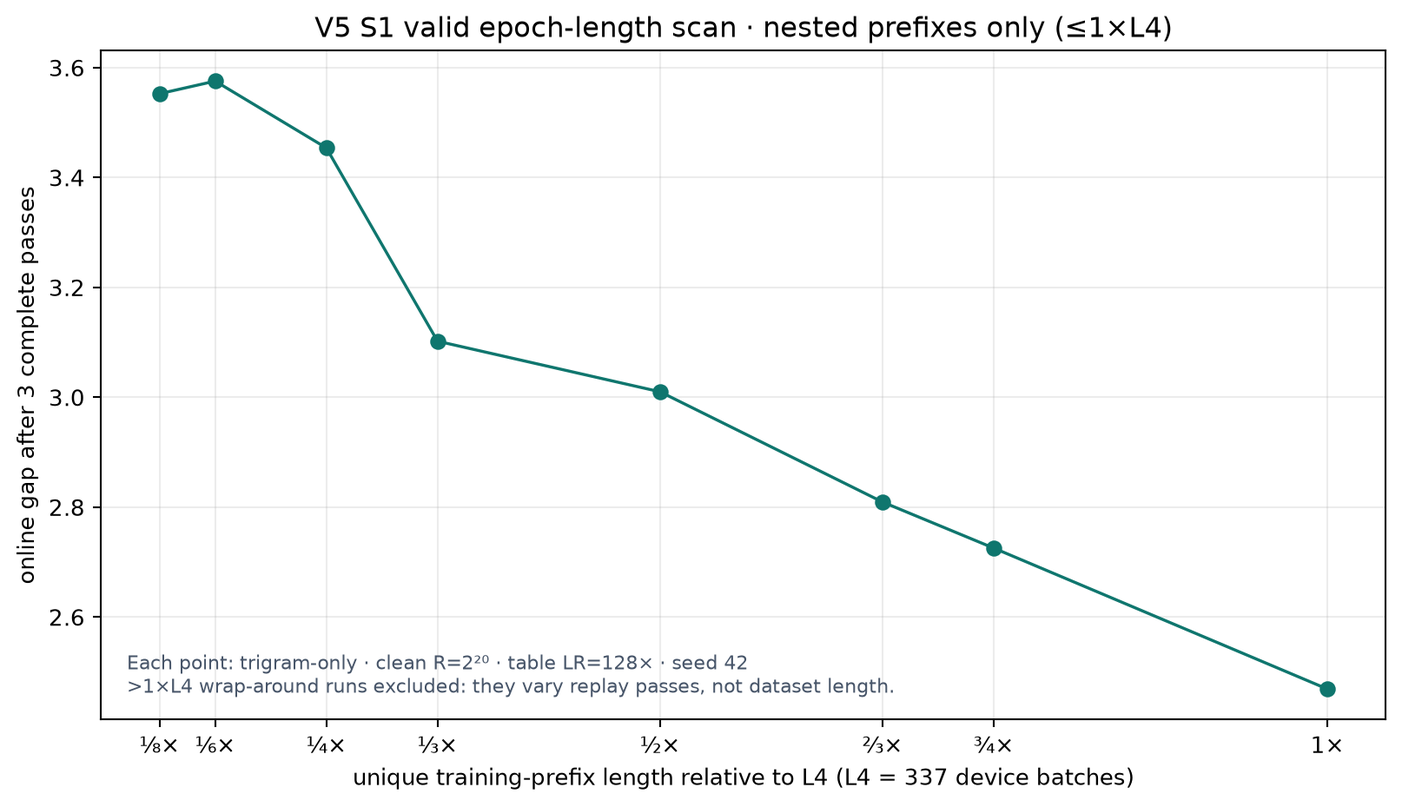
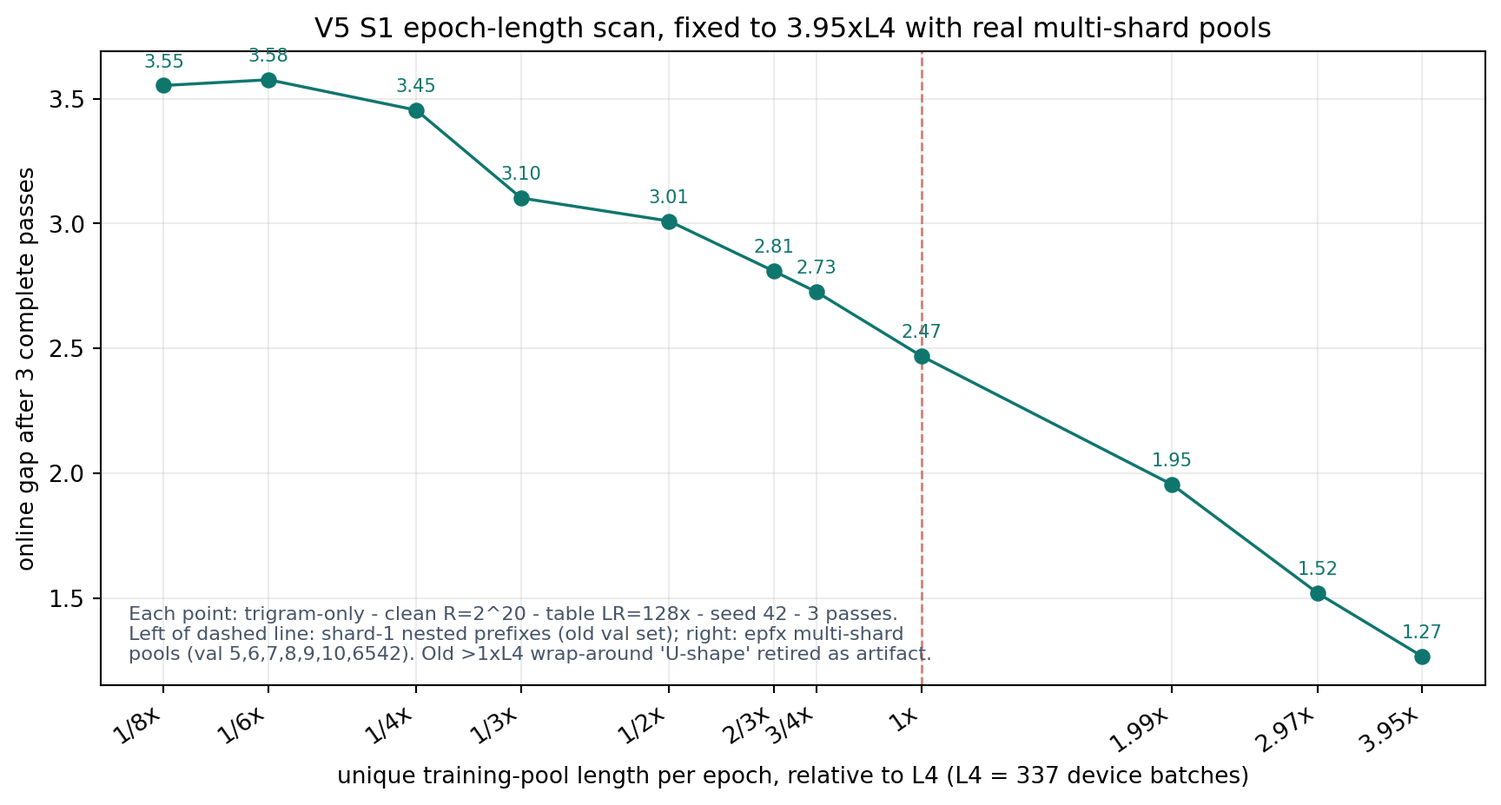
docs(ngram-gap): restructure main doc TOC, model finale with LaTeX derivation, epoch-length fix to 3.95xL4

diff --git a/blogs/ngram-gap-mechanism-guide/index.html b/blogs/ngram-gap-mechanism-guide/index.html
@@ -4,6 +4,13 @@
 <meta charset="utf-8">
 <meta name="viewport" content="width=device-width, initial-scale=1">
 <title>n-gram gap 机制 · 主文档（v5 标准）</title>
+<script>
+window.MathJax = {
+  tex: {inlineMath: [['\\(','\\)']], displayMath: [['\\[','\\]']]},
+  chtml: {scale: 0.98}
+};
+</script>
+<script async src="https://cdn.jsdelivr.net/npm/mathjax@3/es5/tex-chtml.js"></script>
 <style>
 :root{--ink:#1c2733;--mut:#5b6b7b;--line:#dde5ec;--acc:#2d6f9f;--acc2:#c4493d;--bg:#fbfcfd;--card:#fff}
 *{box-sizing:border-box}
@@ -29,7 +36,6 @@ code{background:#eef2f6;border-radius:4px;padding:1px 5px;font:12.5px/1.5 ui-mon
 .toc a{display:block;background:var(--card);border:1px solid var(--line);border-radius:10px;padding:9px 12px;text-decoration:none;color:var(--ink);font-size:13.5px}
 .toc a:hover{border-color:var(--acc)}
 .toc a b{color:var(--acc)}
-.formula{background:var(--card);border:1px solid var(--line);border-radius:10px;padding:12px 16px;font:14px/1.7 ui-monospace,Menlo,monospace;margin:.9em 0;overflow-x:auto}
 footer{margin-top:3em;padding-top:1em;border-top:1px solid var(--line);color:var(--mut);font-size:12.8px}
 a{color:var(--acc)}
 .small{font-size:12.8px;color:var(--mut)}
@@ -42,32 +48,32 @@ a{color:var(--acc)}
 <p class="lead">本页是<b>唯一权威主文档</b>（blog 发布版；本地只读副本在仓库 <code>docs/report/index.html</code>）。全部结果使用 v5 极简标准与统一口径：gap = fixed-val − current-batch online train loss，run 级溯源见 <a href="experiment-registry.html">实验登记表</a>。</p>
 
 <div class="toc">
-<a href="#s0"><b>0</b> 标准与测量</a>
-<a href="#s1"><b>1</b> 主要现象：加 n-gram 就有 gap</a>
-<a href="#s2"><b>2</b> gap–频率关系</a>
-<a href="#s3"><b>3</b> gap–表大小关系</a>
-<a href="#s4"><b>4</b> epoch 轴：长度、编号与 pass</a>
-<a href="#s5"><b>5</b> 干预实验</a>
-<a href="#s6"><b>6</b> 核心区间模型：频率核 × replay 读出</a>
-<a href="#s7"><b>7</b> 附录：LR 与 β₂ 消融</a>
-<a href="#s8"><b>8</b> 来源与可追溯性</a>
+<a href="#s1"><b>1</b> 代码与标准 setting</a>
+<a href="#s2"><b>2</b> 主要现象：加 n-gram 就有 gap</a>
+<a href="#s3"><b>3</b> gap–频率关系</a>
+<a href="#s4"><b>4</b> gap–表大小关系</a>
+<a href="#s5"><b>5</b> epoch 轴：长度、编号与 pass</a>
+<a href="#s6"><b>6</b> 干预实验</a>
+<a href="#s7"><b>7</b> 附录：学习率与优化器消融</a>
+<a href="#s8"><b>8</b> 数学模型：M(f) 核 × replay 读出</a>
+<a href="#s9"><b>9</b> 来源与可追溯性</a>
 </div>
 
 <div class="banner"><b>标准 setting（v5）</b>：vanilla nanoGPT 8L·6H·768D，vocab 8192，seq 2048；注入点 input/wte；clean bigram+trigram 单表 R=2²⁰（table-size 轴除外）；表 RMSProp 无动量 (0, 0.99)、table LR ×128；backbone AdamW (0.8,0.95) wd 0.1、lr 6e-4、<b>warmup_constant(100)</b>（无 warmdown/cosine）；bf16、不 torch.compile；seed 42；device batch 72（total 147,456 tok）；train shard 1，val shards 与 train 完全不重叠。<b>口径</b>：train loss = 当前 batch 的 online loss（更新前）；val = fixed batches（与 train 不重叠）；gap = val − train；val/freq 每 10 步。1 epoch = 337 步，1000 步 ≈ 3 pass。</div>
 
-<h2 id="s0">0 · 标准与测量</h2>
-<p><b>代码</b>：训练与注入 <code>code/train.py</code>（n-gram 注入公式 <code>x = wte(idx) + Σ_n ngram_ve[idx_n]</code>，clean 单表 <code>nn.Embedding(R, n_embd)</code>，单一 hash，R = distinct+1 零碰撞）；频率索引 <code>code/ngram_freq.py</code>；launcher <code>code/cluster/run_v5_clean.sh</code>（128× 标准已写死）。<b>口径细节</b>：online train loss 在参数更新前记录，fixed-val 在同 step 更新后；<code>novel</code>（hit=0）无 train loss、不定义 gap；历史 2× 时代数据与 4-layer/2-hash 框架均已退役，仅存档。</p>
+<h2 id="s1">1 · 代码与标准 setting</h2>
+<p><b>代码</b>：训练与注入 <code>code/train.py</code>（n-gram 注入公式 <code>x = wte(idx) + Σ_n ngram_ve[idx_n]</code>，clean 单表 <code>nn.Embedding(R, n_embd)</code>，单一 hash，R = distinct+1 零碰撞）；频率索引 <code>code/ngram_freq.py</code>；launcher <code>code/cluster/run_v5_clean.sh</code>（128× 标准已写死）；批量清单 <code>code/cluster/run_v5_main_manifest.sh</code>。<b>训练原理</b>：每个位置的 n-gram context 经单一 hash 查到表行、把行向量加到注入点残差流；反向传播只更新被命中的行（稀疏更新），这就是表记忆写入的物理过程。<b>口径细节</b>：online train loss 在参数更新前记录，fixed-val 在同 step 更新后；<code>novel</code>（hit=0）无 train loss、不定义 gap；历史 2× 时代数据与 4-layer/2-hash 框架均已退役，仅存档。</p>
 <p>每一张图的 run_id / step / seed 都登记在 <a href="experiment-registry.html">experiment-registry.html</a>；数值断言台账在 <code>docs/claims-ledger.md</code>。旧版主文档（2× 时代，2026-08-06）已快照至 <a href="versions/index-20260806-2x-era.html">versions/</a>。</p>
 
-<h2 id="s1">1 · 主要现象：加 n-gram 就有 gap</h2>
+<h2 id="s2">2 · 主要现象：加 n-gram 就有 gap</h2>
 <p>同一条训练流、同一套评测下，四个注入臂只有带 n-gram 注入的臂产生持续增长的 val−train gap：input / y / v 三臂 gap 随 step 单调增长，nogram 对照贴零。这条现象在 2× 与 128× 两代表 LR 下都成立；128× 下 gap 水平整体抬升（input 主线 @2000 = 5.21，旧 2× 标准 1.87），种子 43/44 复现 5.42 / 5.53，结论稳健。</p>
 <figure><img src="../../docs/figs/main/fig_v5_2x_128x_injection_curves.png" alt="injection curves 2x vs 128x">
 <figcaption><b>图 1 · 注入点 gap 曲线簇（线性坐标）</b>。input / y / v 三条 gap 曲线随 step 单调增长，nogram 贴零；蓝 = 2× 表 LR（历史对照），橙 = 128×（现行标准）。online 单 batch 噪声属正常；点为原始记录、细线为 3 点均值视觉连接。来源：<code>nglab{input,y,v,nogram}_input_v5_{2x,128x}_fixed</code>（<code>run_v5_clean.sh</code>，seed 42，2000 步，val/freq=10）。</figcaption></figure>
 <figure><img src="../../docs/figs/main/fig_v5_128x_injection_bars.png" alt="injection final gap bars">
 <figcaption><b>图 2 · 四臂 final gap 汇总（step 2000）</b>。2×：input 4.928 / y 6.441 / v 6.396 / nogram 0.328；128×：input 5.211 / y 7.058 / v 6.977 / nogram 0.222。注入点之间的差异（y/v &gt; input）是后续机制分析的线索之一，但「有无 gap」本身只由注入决定。</figcaption></figure>
 
-<h2 id="s2">2 · gap–频率关系：低频 context 贡献主要 gap</h2>
-<p>把每个 eval step 的 train/val loss 按 context 的 exact train hit-count f 分桶：per-bin gap 随 f 幂律衰减——<b>低频 context 贡献了大部分 gap</b>。两条独立的测量互相印证：主 run 的 online coarse bins（step-1000 局部斜率 bigram ≈ −0.21 / trigram ≈ −0.44）与固定 train 探针的 exact-f 拟合（bigram −0.253 / trigram −0.318，窗口 [4,4096]，token-mass 加权）。两个口径都不是 1/f；β 不是普适常数（随 R 与口径漂移，见 §6），只作现象描述使用。</p>
+<h2 id="s3">3 · gap–频率关系：低频 context 贡献主要 gap</h2>
+<p>把每个 eval step 的 train/val loss 按 context 的 exact train hit-count f 分桶：per-bin gap 随 f 幂律衰减——<b>低频 context 贡献了大部分 gap</b>。两条独立的测量互相印证：主 run 的 online coarse bins（step-1000 局部斜率 bigram ≈ −0.21 / trigram ≈ −0.44）与固定 train 探针的 exact-f 拟合（bigram −0.253 / trigram −0.318，窗口 [4,4096]，token-mass 加权）。两个口径都不是 1/f；β 不是普适常数（随 R 与口径漂移，见 §8），只作现象描述使用。</p>
 <figure><img src="../../docs/figs/main/fig_v5_128x_injection_frequency_bigram.png" alt="freq bins bigram">
 <figcaption><b>图 3a · bigram 支路频率分桶（128× 主线）</b>。分桶 mean loss（train 探针 = 固定 train 诊断 batch 窗口；val = fixed batches）与 per-bin gap；低频端 gap 显著更高。trigram 见图 3b。</figcaption></figure>
 <figure><img src="../../docs/figs/main/fig_v5_128x_injection_frequency_trigram.png" alt="freq bins trigram">
@@ -75,20 +81,20 @@ a{color:var(--acc)}
 <figure><img src="../../docs/figs/main/fig_v5_s1_frequency_exact_f.png" alt="gap vs exact f">
 <figcaption><b>图 4 · gap 对 exact f（双对数）</b>。横轴 = context 的精确 train hit-count（主 run 的 exact_freq_loss 诊断），bigram / trigram 同图。正 gap 段幂律拟合：bigram −0.253、trigram −0.318（R²≈0.90/0.93）。novel（f=0）不定义 gap，不进入拟合。</figcaption></figure>
 <figure><img src="../../docs/figs/main/fig_v5_s1_frequency_token_mass.png" alt="token mass by f">
-<figcaption><b>图 5 · 频率段的 token 覆盖质量 Σf</b>。各对数频率段覆盖的 token 总量（Σf）。这是「曝光规模」视图：低频段 context 种类极多但单个曝光少，中频段承载主要 token 质量；读 §2 的 gap 曲线时须与本图对照，避免把「种类多」误读成「质量大」。</figcaption></figure>
-<p>频率轴与干预直接相连：把 f≤8 的 n-gram 贡献在 epoch 边界后动态屏蔽，net gap 掉到 <b>0.765</b>（对照 2.724）——少量低频 context 承载了 ~72% 的 gap（见 §5 图 11）。</p>
+<figcaption><b>图 5 · 频率段的 token 覆盖质量 Σf</b>。各对数频率段覆盖的 token 总量（Σf）。这是「曝光规模」视图：低频段 context 种类极多但单个曝光少，中频段承载主要 token 质量；读 §3 的 gap 曲线时须与本图对照，避免把「种类多」误读成「质量大」。</figcaption></figure>
+<p>频率轴与干预直接相连：把 f≤8 的 n-gram 贡献在 epoch 边界后动态屏蔽，net gap 掉到 <b>0.765</b>（对照 2.724）——少量低频 context 承载了 ~72% 的 gap；mask_low / mask_high 两组阈值扫描见 §6 图 11–13。</p>
 
-<h2 id="s3">3 · gap–表大小关系：幂律</h2>
-<p>单支路变 R（另一支路固定 2²⁰，两者都开启），gap 在 R∈[2¹⁶, 2²²] 窗口内呈干净幂律：<b>bigram γ ≈ 0.576、trigram γ ≈ 0.665</b>。在 §6 的核心模型里，R 主要改变同一个频率核能被读出的总幅度；我们把它记为经验修正 ρ(R)，不再把某个尚未验证的碰撞公式塞进主方程。窗口外（R≲2¹⁴ 或 ≳2²³）偏离线性：小 R 端被噪声与本底主导，大 R 端大量行几乎为空。</p>
+<h2 id="s4">4 · gap–表大小关系：幂律</h2>
+<p>单支路变 R（另一支路固定 2²⁰，两者都开启），gap 在 R∈[2¹⁶, 2²²] 窗口内呈干净幂律：<b>bigram γ ≈ 0.576、trigram γ ≈ 0.665</b>。在 §8 的数学模型里，R 主要改变同一个频率核能被读出的总幅度；我们把它记为经验修正 ρ(R)，不再把某个尚未验证的碰撞公式塞进主方程。窗口外（R≲2¹⁴ 或 ≳2²³）偏离线性：小 R 端被噪声与本底主导，大 R 端大量行几乎为空。</p>
 <figure><img src="../../docs/figs/main/fig_v5_s1_table_size_loglog_clean.png" alt="gap vs table R loglog">
 <figcaption><b>图 6 · S1 table-size 双对数（单支路扫描）</b>。蓝 = 只变 bigram 表（<code>s1v5_128_tbl_bi2_R{R}_fixed</code>），红 = 只变 trigram 表（<code>s1v5_128_tbl_tri2_R{R}_fixed</code>）；另一支路固定 2²⁰ 但两个表都开启。窗口斜率：bigram 0.576 / trigram 0.665。<b>术语</b>：K = 训练前缀中 distinct contexts 数；R = 每 branch 物理行数；K/R 是负载比而非 collision rate；实测 collision = (K − occupied)/K。</figcaption></figure>
 
-<h2 id="s4">4 · epoch 轴：长度、编号与 pass 数</h2>
-<p><b>epoch 长度（合法段）</b>：在 ≤1×L4 的真 epoch-length 段（0.25×/0.5×/0.75×/1×L4，nested prefix，同一 shard-1 频率索引），gap 随 epoch 长度温和下降（3.55 → 2.47）。</p>
-<div class="warn"><b>勘误（2026-08-30）</b>：早期“&gt;1×L4 出现 U 形、顶点 0.41×L4”的二次拟合作废——&gt;1×L4 各点共用 shard-1 频率索引，其“一个 epoch”是 shard-1 的 wrap-around 重放，本质是 pass 数轴而非 epoch 长度轴。</div>
-<figure><img src="../../docs/figs/main/fig_v5_s1_epoch_length_valid.png" alt="epoch length valid">
-<figcaption><b>图 7 · epoch 长度轴（仅合法 nested-prefix 段）</b>。0.25×–1×L4，终点 gap 随 epoch 长度温和下降；旧 12 点“U 形”图已删除（见上方勘误）。</figcaption></figure>
-<p><b>epoch 编号</b>：固定同一份 1× 数据反复 replay，gap 随完成 pass 数增长。这里的关键不是“第几个 epoch”这个标签，而是：<b>第二轮开始时，当前样本在被预测之前，表里已经有第一轮写入的、与这份训练集特有误差相关的内容</b>。train 会反复遇到同一误差，val 则来自独立样本；共享 backbone 又会在每轮更新中逐渐学会放大这条表信号，所以两者分叉。完整推导见 §6。</p>
+<h2 id="s5">5 · epoch 轴：长度、编号与 pass 数</h2>
+<p><b>epoch 长度</b>：固定 3 个完整 pass，只改变每个 epoch 见过的 unique 数据池长度（0.125×–3.95×L4，L4 = 337 batches）。gap 随池长<b>全程单调下降</b>（3.55 → 2.47 → 1.96 → 1.52 → 1.27）：每个 epoch 内见到的 distinct 数据越多，同样 3 pass 后的终点 gap 越低。</p>
+<div class="note"><b>勘误已闭环（2026-08-31）</b>：早期「&gt;1×L4 出现 U 形、顶点 0.41×L4」的二次拟合作废——旧批 &gt;1×L4 各点只挂 shard-1，其「一个 epoch」是 shard-1 的 wrap-around 重放，本质是 pass 数轴而非 epoch 长度轴。修复批 <code>s1v5_128_epfx_tri_{2,3,4}xL4_3ep</code>（§40）改用真实多 shard 池（train shards 1,2 / 1,2,3 / 1,2,3,4），每 epoch 恰好完整一遍、无任何重放；新点 1.955 / 1.519 / 1.267 延续 ≤1×L4 段的单调下降，U 形确认纯属假象。两段 val 组成不同（1×L4 处切换，图 7 虚线），段内严格可比、段间看趋势。</div>
+<figure><img src="../../docs/figs/main/fig_v5_s1_epoch_length_valid.png" alt="epoch length fixed">
+<figcaption><b>图 7 · epoch 长度轴（0.125×–3.95×L4，修复后全程）</b>。固定 3 pass，gap 随 unique 池长单调下降。左段（≤1×L4）：shard-1 nested prefixes（旧 val 集）；右段（&gt;1×L4）：多 shard 真实池修复批 <code>s1v5_128_epfx_*</code>，实际池长 670/1000/1330 batches（= 1.99/2.97/3.95×L4，shard 尾部取整）。trigram 单支路、table ×128、seed 42；红虚线为 val 组成切换处。</figcaption></figure>
+<p><b>epoch 编号</b>：固定同一份 1× 数据反复 replay，gap 随完成 pass 数增长。这里的关键不是「第几个 epoch」这个标签，而是：<b>第二轮开始时，当前样本在被预测之前，表里已经有第一轮写入的、与这份训练集特有误差相关的内容</b>。train 会反复遇到同一误差，val 则来自独立样本；共享 backbone 又会在每轮更新中逐渐学会放大这条表信号，所以两者分叉。完整推导见 §8.6。</p>
 <figure><img src="../../docs/figs/main/fig_v5_s1_epoch_number.png" alt="gap vs epoch number">
 <figcaption><b>图 8 · gap 对 epoch 编号</b>。337 / 674 / 1000 步三个基准点（1× 主线，128×）。这三个点只覆盖早期增长，不能单独证明饱和。</figcaption></figure>
 <figure><img src="../../docs/figs/theory/fig_v5_epoch_kernel_dynamics.png" alt="epoch kernel dynamics">
@@ -99,7 +105,7 @@ a{color:var(--acc)}
 <figure><img src="../../docs/figs/main/fig_v5_128x_dose_gap.png" alt="dose final gap">
 <figcaption><b>图 10 · dose 终点 gap（128× 批，2000 步）</b>。0.25×→5×：10.90 → 0.36。按 pass 数重参数化后并入图 9；旧 11 点 2× 时代剂量结果已退役。</figcaption></figure>
 
-<h2 id="s5">5 · 干预实验：谁在产生 gap</h2>
+<h2 id="s6">6 · 干预实验：谁在产生 gap</h2>
 <p>在 epoch 边界做单变量干预，读两条曲线（train / val）与 net gap：</p>
 <ul>
 <li><b>freeze_table</b>（e2 起停表写入）：net gap <b>3.452 &gt; 对照 2.724</b>——后期不需要表写入，表内容一个 pass 内已饱和；</li>
@@ -113,136 +119,153 @@ a{color:var(--acc)}
 <figure><img src="../../docs/figs/main/fig_v5_128x_mask_low_le_scan.png" alt="mask low scan">
 <figcaption><b>图 12 · mask_low 阈值扫描（f ≤ t 屏蔽）</b>。t 越大屏蔽越多，net gap 单调下降；t=8 已去掉 ~72%。语义：f ≥ t 归入 high、f ≤ t 归入 low（互补分区，阈值含端）。</figcaption></figure>
 <figure><img src="../../docs/figs/main/fig_v5_128x_mask_high_threshold_scan.png" alt="mask high scan">
-<figcaption><b>图 13 · mask_high 阈值扫描（f ≥ t 屏蔽）</b>。t=1 残留 1.927（backbone scar：backbone 在 pass 1 期间已把自身参数适配到“有 n-gram 残差”的状态）；t≥100 平台 2.72–2.82。</figcaption></figure>
+<figcaption><b>图 13 · mask_high 阈值扫描（f ≥ t 屏蔽）</b>。t=1 残留 1.927（backbone scar：backbone 在 pass 1 期间已把自身参数适配到「有 n-gram 残差」的状态）；t≥100 平台 2.72–2.82。</figcaption></figure>
 
-<h2 id="s6">6 · 核心区间模型：频率核 M(f) × replay 读出 a<sub>e</sub></h2>
-<p class="small">地位：这是对当前数据<b>最小且可证伪</b>的工作模型。它只解释已经被数据支持的核心区间：exact-f 的可靠正-gap 段、当前 R 中段与 e=1…10 的 fixed replay；不声称解释极小 R、高频尾、mask 后再平衡或更长时间的最终平台。</p>
-
-<h3>6.1 先把要解释的量减到一个</h3>
-<p>为排除普通 backbone 自身的小 gap，下面建模 <b>net n-gram gap</b>：</p>
-<div class="formula">G<sub>e</sub> := Gap<sub>ngram,e</sub> − Gap<sub>nogram,e</sub></div>
-<p>对训练中出现 f 次的 context，记其局部 net gap 为 g<sub>e</sub>(f)。核心区间只需要一个语料核和一个训练状态：</p>
-<div class="formula">局部：g<sub>e</sub>(f) ≈ a<sub>e</sub> M(f)<br>
-全局：G<sub>e</sub> ≈ a<sub>e</sub> Q，　Q := Σ<sub>f</sub> μ<sub>f</sub>M(f)</div>
-<ul>
-<li><b>M(f)</b> = N₁(f)/(f·n(f))：频率为 f 的 context 的 Good–Turing 缺失延续质量。n(f) 是这类 context 数，N₁(f) 是它们只出现一次的 next-token 类型总数。直观上，M(f) 估计“val 再见这个 context 时，next token 在 train 从未跟它搭配过”的概率；它只由语料计数决定，<b>没有拟合参数</b>。</li>
-<li><b>μ<sub>f</sub></b>：验证 token 落在频率 f 的质量份额；Q 是把局部核按真实 token 质量加总后的固定常数，也不是新参数。</li>
-<li><b>a<sub>e</sub></b>：完成 e 个 pass 后，backbone 对表中训练集特有方向的“可用读出强度”。这是模型里唯一随 epoch 变化的状态。</li>
-</ul>
-<p>因此旧式子里的 B、V、S<sub>eff</sub>、A(t,passes) 不再进入核心模型；复杂的两分量核只保留为高频尾修正的候选。<b>核心区间的判决只问一件事：不同 f 的曲线是否等于同一个 M(f) 乘一个幅度。</b></p>
-
-<h3>6.2 Good–Turing 到底估计什么：从原始计数得到 M(f)</h3>
-<p><b>先澄清角色</b>：Good–Turing 不是训练模型，也不直接预言 gap；它是一个从 train 计数估计“未见概率质量”的非参数方法。我们的机制假说再把这份未见质量接到表记忆产生的 gap 上。</p>
-<p>固定一个 context c。记 next token 为 y，train 中组合 (c,y) 出现次数为 n(c,y)，context 总次数为：</p>
-<div class="formula">f<sub>c</sub> = Σ<sub>y</sub> n(c,y)</div>
-<p>对所有恰好出现 f 次的 context，定义频率层 L<sub>f</sub>={c:f<sub>c</sub>=f}，其 context 数为 n(f)=|L<sub>f</sub>|。再数每个 context 有多少种 next token 在 train 中<b>恰好只出现一次</b>：</p>
-<div class="formula">N<sub>1</sub>(c) := #{y : n(c,y)=1}<br>
-N<sub>1</sub>(f) := Σ<sub>c∈L_f</sub> N<sub>1</sub>(c)<br>
-M(f) := N<sub>1</sub>(f) / [f·n(f)] = average<sub>c∈L_f</sub>[N<sub>1</sub>(c)/f]</div>
-<p>在本实验里，bigram 支路的 context–continuation 类型就是“bigram context + next token”形成的 trigram 类型；trigram 支路同理要数 4-gram 类型。因此 M(f) 可以完全从 tokenized train shard 计数，不需要模型、优化器或 GPU。</p>
-
-<p><b>为什么 singleton/f 是 unseen mass？</b> 设真实条件分布为 p<sub>c,y</sub>=P(y|c)，从它抽 f 次作为 train。一个 val continuation y 在 train 一次也没出现的真实概率质量为：</p>
-<div class="formula">P<sub>0</sub>(c;f) = Σ<sub>y</sub> p<sub>c,y</sub>(1−p<sub>c,y</sub>)<sup>f</sup></div>
-<p>而 train 中 singleton 类型数的期望是：</p>
-<div class="formula">E[N<sub>1</sub>(c)|f] = Σ<sub>y</sub> f·p<sub>c,y</sub>(1−p<sub>c,y</sub>)<sup>f−1</sup><br>
-E[N<sub>1</sub>(c)/f] = Σ<sub>y</sub> p<sub>c,y</sub>(1−p<sub>c,y</sub>)<sup>f−1</sup> ≈ P<sub>0</sub>(c;f)</div>
-<p>二者只差一个 (1−p)<sup>−1</sup>；missing mass 主要由大量小 p 的尾部类型贡献时，这个因子接近 1。这就是 Good–Turing 的 unseen-mass 估计。sanity check：f=1 时唯一出现的 continuation 必然是 singleton，所以 M(1)=1；实数计数中 bigram 的 M(8)=.510、M(128)=.269，trigram 的 M(8)=.535、M(128)=.296。</p>
-
-<p><b>它如何连到 gap？</b> 真实 next-token 分布是 p<sub>c</sub>，有限 train 给出经验分布 p̂<sub>c</sub>；δ<sub>c</sub>=p̂<sub>c</sub>−p<sub>c</sub> 是这份训练集特有的采样残差。表行会快速写入与 δ<sub>c</sub> 相关的方向，同一 train 样本 replay 时可复用，独立 val 则不能得到等量收益。对交叉熵在当前 logits 附近作二阶展开，局部 gap 主项具有：</p>
-<div class="formula">g<sub>e</sub>(c) ≈ a<sub>e</sub> ‖p̂<sub>c</sub>−p<sub>c</sub>‖²<sub>H<sub>c</sub></sub></div>
-<p>未知的平方残差无法直接计算；M(f) 是“经验分布遗漏了多少真实支撑”的可观测代理，于是得到核心假说 g<sub>e</sub>(f)≈a<sub>e</sub>M(f)。这不是“方差必为 1/f”的推导，所以允许不同 n-gram order 有不同指数。</p>
-
-<h3>6.3 指数从哪里来：Zipf 尾 ⇒ β = 1−1/α</h3>
-<p>现在只对<b>单个 context 的 continuation 尾部</b>加一个解析假设：按概率排序后</p>
-<div class="formula">p<sub>(r)</sub> = Z<sup>−1</sup>r<sup>−α</sup>，　α&gt;1</div>
-<p>把 (1−p)<sup>f</sup> 在尾部近似成 exp(−fp)，再用积分代替求和：</p>
-<div class="formula">M(f) ≈ P<sub>0</sub>(f) ≈ Z<sup>−1</sup>∫ r<sup>−α</sup> exp[−f r<sup>−α</sup>/Z]dr<br>
-令 u=f r<sup>−α</sup>/Z，得到<br>
-M(f) ≈ [Γ(1−1/α)/α] Z<sup>−1/α</sup> f<sup>−(1−1/α)</sup></div>
-<div class="note"><b>指数核心式</b>：如果 M(f)∝f<sup>−β</sup>，那么<br>
-<b>β = 1−1/α</b>，反解 <b>α = 1/(1−β)</b>。<br>
-等价地，若观察到的 continuation 支撑遵循 Heaps 律 K(f)∝f<sup>θ</sup>，则 θ=1/α，故 <b>β=1−θ</b>。</div>
-<p>这给“支撑维度”一个具体含义：α 越大，条件分布尾部越尖，新增 continuation 类型的支撑 K(f) 长得越慢，missing mass 消耗得越快，所以 β 越大。注意它是理想重尾下的<b>局部渐近关系</b>；自然语料有 context 异质性与有限窗口，不能把 α、β 当成跨区间常数。</p>
-
-<h3>6.4 实际上怎样从统计量估计 β</h3>
-<p>步骤完全由已记录统计决定：</p>
-<ol>
-<li>从 train 数出每个 f 的 n(f)、N<sub>1</sub>(f)，直接计算 M(f)=N<sub>1</sub>(f)/[f n(f)]。</li>
-<li>从 <code>s1v5_128_frequency_main</code>（seed 42，step 1000，exact-frequency）读取每个 exact f 的 g(f)=val mean loss−train-probe mean loss；只保留两侧都有 token 且 g&gt;0 的点。</li>
-<li>高 f 点稀疏，先做几何分桶。对桶 b，以 token 数 w<sub>f</sub> 加权：<br>
-<code>log f̄_b = Σw_f log f / Σw_f</code>，<code>ḡ_b=Σw_f g(f)/Σw_f</code>，<code>M̄_b=Σw_f M(f)/Σw_f</code>。</li>
-<li>对 z∈{g,M} 做加权 log–log 局部回归：<br>
-<code>log z̄_b = intercept − β_z log f̄_b</code>。等价的闭式斜率为<br>
-<code>β̂_z = −Σw_b(x_b−x̄)(y_b−ȳ)/Σw_b(x_b−x̄)²</code>。</li>
-<li>检验的不只是斜率。对 g(f)=C M(f)，只拟合一个幅度：<br>
-<code>log Ĉ = Σw_b[log ḡ_b−log M̄_b]/Σw_b</code>；随后报告加权 R²、乘法 RMSE，并做低 f 拟合→较高 f 预测。</li>
-</ol>
-
-<table>
-<tr><th>branch</th><th>实测 gap 指数 β<sub>g</sub></th><th>计数核指数 β<sub>M</sub></th><th>α<sub>eff</sub>=1/(1−β<sub>M</sub>)</th><th>证据解释</th></tr>
-<tr><td>bigram</td><td>0.2548</td><td>0.2579</td><td>1.348</td><td><b>同一 f̄≤721 窗口、同一 val-token 权重</b>；是对齐的 shape test</td></tr>
-<tr><td>trigram</td><td>0.3181</td><td>0.3194</td><td>1.469</td><td>gap 为登记的 7-bin token-mass fit；M 为 f∈[1,100]、n(f) 加权，<b>窗口/权重不同，只算交叉验证</b></td></tr>
-</table>
-<p>bigram 的严格对齐检验中，单幅度 Ĉ=8.31，加权线性 R²=.9638，乘法 RMSE=5.74%。只用 f̄≤100 估计 C，再预测 100&lt;f̄≤721，R²=.8837、乘法 RMSE=4.77%。这比“两个指数接近”更强，因为 M(f) 的整条形状没有用 gap 拟合。trigram 的 .318/.319 很醒目，但因有限窗口和权重不齐，正文只把它列为 cross-check，不把小数位相等当作证明。</p>
-<figure><img src="../../docs/figs/theory/fig_v5_missing_mass_kernel.png" alt="missing mass kernel">
-<figcaption><b>图 14 · kernel 的核心区间检验</b>。蓝点是实测 per-f gap，绿线是只拟合幅度的 C·M(f)。指数不是先验塞入：M(f) 由 singleton 统计先独立算出。紫色两分量和红色碰撞曲线是区间外 challenge，不属于当前主公式。统计复算见 <code>docs/figs/theory/theory_good_turing_exponent_summary.csv</code>。</figcaption></figure>
-
-<h3>6.5 为什么 epoch 编号会进入：第一轮写，后续轮次才能“预先读”</h3>
-<ol>
-<li><b>pass 1 写入。</b> online loss 在更新前记录；一个样本第一次出现时，不能使用自己随后写入的表内容。高频 context 可在同一 pass 内复现，所以“第一轮严格为零”不是数学恒等式；但当前 trigram-only 聚合数据在 e1 的 net gap 为 −0.006，故这里有 a₁≈0。</li>
-<li><b>pass 2 起复用。</b> 同一个 fixed train 样本再次到来前，表行已经含有与该训练集采样残差 δ<sub>c</sub> 对齐的内容。它会实打实降低这个 train 样本的 loss；独立 val 不重复同一残差，因此没有等量收益。</li>
-<li><b>backbone 逐轮放大。</b> 表 LR=128× 时，表写入很快；但表向量是否在深层网络中成为可用预测信号，取决于共享 backbone 的更新。每轮 replay 都再次提供“这个表方向能降低 train loss”的相关梯度，因此 a<sub>e</sub> 继续增长。</li>
-<li><b>边际增量变小。</b> 当读出已经较强，交叉熵曲率、共享参数任务干涉与 weight decay 会抵消继续放大的梯度，于是每轮增加量下降。这里不需要显式“熵正则项”：恢复力来自原损失的局部曲率、参数 superposition 和已有 wd。</li>
-</ol>
-<p>最小动力学只写一个一阶递推：</p>
-<div class="formula">a<sub>e+1</sub> − a<sub>e</sub> = η<sub>b</sub>(s − λa<sub>e</sub>)<br>
-令 q=1−η<sub>b</sub>λ，a<sub>∞</sub>=s/λ，则<br>
-a<sub>e</sub> = a<sub>∞</sub>[1−q<sup>e−1</sup>]，　G<sub>e</sub>=G<sub>∞</sub>[1−q<sup>e−1</sup>]</div>
-<p>s 是 fixed replay 反复提供的训练残差相关信号；λ 是上述有效恢复力，不是新增到代码里的正则项。早期 e 较小时，G<sub>e</sub> 近似随 e 线性；之后每轮增量按 q 缩小。10-epoch net 曲线的区间内拟合给出 q=.904、R²=.9986（图 8b）。对应的“平台 13.58、时间常数 9.88 epoch”只是短窗口外推，<b>目前没有数据支持把它当作真实平台</b>。</p>
-
-<h3>6.6 学习率悖论为何消失，以及因果干预是否支持</h3>
-<p>增大 table LR 只加快“写入”，不能凭空创造第二次见到同一样本，也不能把 backbone 的 a<sub>e</sub> 瞬间推到多 epoch 状态。因此 ≥16× 后 table LR 曲线聚拢，而 epoch 依赖仍保留。新完成的 6-pass 因果批给出更直接的判决（全部 seed 42、2022 步、128×，唯一变量为干预）：</p>
-<ul>
-<li><code>causalv5m3_freeze_backbone_e1/e2/e3</code> 的 final gap 依次为 <b>1.585 / 2.505 / 3.389</b>，未冻结对照 <code>causalv5m3_none_2022</code> 为 <b>5.733</b>。允许 backbone 多训练一轮，就锁存更多 gap，方向与 a<sub>e</sub> 单调增长一致。</li>
-<li><code>causalv5m3_freeze_table_e2</code> final gap=<b>5.386</b>，保留对照的 94%；说明 e2 后继续写表不是后续增长的主要必要条件。</li>
-<li>backbone wd 0 / 0.1 / 0.3 的 final gap 为 <b>5.833 / 5.733 / 5.609</b>，方向符合 λ 增大使读出下降；但只有单 seed 且差值约 0.12，只算弱支持。</li>
-</ul>
-
-<h3>6.7 table size 放在哪里</h3>
-<p>在当前实测 R 中段，改变 R 近似只改变所有 f 的共同幅度，因此作为一个独立的有限容量修正即可：</p>
-<div class="formula">G<sub>e</sub>(R) ≈ ρ(R) · a<sub>e</sub> · Q，　并约定 ρ(R<sub>ref</sub>)=1</div>
-<p>ρ(R) 在中段近似 R<sup>γ</sup>（bigram γ=.576，trigram γ=.665），但这只是经验规律。已测稀释面在 f 上近乎平坦，而 f/(f+T/R) 会错误地压塌 f=1，因此我们暂不把“碰撞如何产生 ρ”写进核心机制。</p>
-<figure><img src="../../docs/figs/theory/fig_v5_dilution_surface.png" alt="dilution surface">
-<figcaption><b>图 15 · 为什么把 ρ(R) 留作经验修正</b>。实测 R 压制在 f 上近乎平坦；两种行内流量竞争公式在低频端被直接否定。它支持“R 改幅度、不改核心 M(f) 形状”，但尚未给出 ρ 的微观推导。</figcaption></figure>
-<p><b>当前判决</b>：核心区间模型 g<sub>e</sub>(f)=a<sub>e</sub>M(f) 已同时通过频率形状、10-epoch 动力学、freeze-backbone 阶梯与 freeze-table 保留四类检验，足以作为主报告的定量解释；仍不能称为对所有 regime 的证明。最关键的下一次 challenge 是把同一 shard×3 全局混匀后与分块 replay 比较：若终点相同而 epoch 齿消失，说明状态主要是累计复用；若终点显著改变，就必须在 a<sub>e</sub> 中加入重复间隔/顺序变量。</p>
-
-<h2 id="s7">7 · 附录：LR 与 β₂ 消融</h2>
-<h3>7.1 表侧：LR × 与 β₂（1000 步，val/freq=10）</h3>
+<h2 id="s7">7 · 附录：学习率与优化器消融</h2>
+<h3>7.1 表侧：LR scale 与 β₂（1000 步，val/freq=10）</h3>
+<figure><img src="../../docs/figs/main/fig_v5_beta099_gap_step1000_vs_table_lr.png" alt="gap at step 1000 vs table lr scale">
+<figcaption><b>图 16 · 终点 gap 对 table LR scale（β₂=.99，0.5×–1024×）</b>。step-1000 gap 从 0.46（0.5×）单调升到峰值 <b>2.73（128×）</b>；≥16× 进入平台，≥512× 缓慢回落。现行标准取 128×：饱和足够早且仍处峰区。点 = 原始 step-1000 记录（seed 42；8×/16×/256×/512×/1024× 读自对应 2000 步 run 的 step 1000）。</figcaption></figure>
 <figure><img src="../../docs/figs/main/fig_v5_optv5f_all_scale_gap_facets.png" alt="scale sweep facets">
-<figcaption><b>图 16 · 表 LR scale 扫描（RMSProp β₂=0.99）</b>。scale ≥16× 后曲线聚拢：表内容 1 个 pass 内就近饱和，LR 不再是瓶颈；128× 只是保证饱和足够早。来源：<code>optv5f_*</code> 批。</figcaption></figure>
+<figcaption><b>图 16b · 表 LR scale 扫描的完整曲线（RMSProp β₂=0.99）</b>。scale ≥16× 后曲线聚拢：表内容 1 个 pass 内就近饱和，LR 不再是瓶颈；128× 只是保证饱和足够早。来源：<code>optv5f_*</code> 批。</figcaption></figure>
 <figure><img src="../../docs/figs/main/fig_v5_optv5f_beta2_compare.png" alt="beta2 compare">
-<figcaption><b>图 17 · β₂ 对比（0.95–0.999，scale=2 中心点）</b>。final gap 全落 2.60–2.75 窄带，无可分辨差异 ⇒ 取 (0, 0.99)（快速响应、数值稳）。历史“β₂=0.999 展开延后”的观测出自 B2-bug 时代，不可复现于 clean 表。</figcaption></figure>
+<figcaption><b>图 17 · β₂ 对比（0.95–0.999，scale=2 中心点）</b>。final gap 全落 2.60–2.75 窄带，无可分辨差异 ⇒ 取 (0, 0.99)（快速响应、数值稳）。历史「β₂=0.999 展开延后」的观测出自 B2-bug 时代，不可复现于 clean 表。</figcaption></figure>
+<figure><img src="../../docs/figs/main/fig_v5_128x_optimizer_gap.png" alt="optimizer compare at 128x">
+<figcaption><b>图 17b · 表优化器对比 @128×（<code>optv5c_{rms,adamw,sgd_m0}_s128x</code>，1000 步，seed 42）</b>。RMSProp (0,.99) 2.73 = AdamW 2.73，SGD（m=0）仅 0.05——逐坐标自适应归一化（近似等步长写入）是表记忆能建立的前提：一次命中只更新一行、但反传梯度按历史幅度逐坐标缩放，裸 SGD 的均匀步长无法把稀疏命中积累成可用内容。</figcaption></figure>
 <h3>7.2 backbone LR 扫描（table LR 锁 128×，A 因子判决批）</h3>
 <figure><img src="../../docs/figs/main/fig_v5_blrv5_backbone_lr.png" alt="backbone lr scan">
-<figcaption><b>图 18 · backbone LR 扫描（<code>blrv5_{input,nogram}_lr{0p0001..0p0040}</code>，§39）</b>。点 = 各 run 原始 final gap（seed 42，1000 步），细线 = 视觉连接。net gap（input − nogram）：1.940 / 2.486 / 2.696 / <b>2.841（峰 @1e-3）</b> / 2.793 / 2.277；nogram 全程平坦（0.011–0.041）。主预言「net gap 随 backbone LR 响应后饱和回落」命中 ⇒ A 因子成立。</figcaption></figure>
+<figcaption><b>图 18 · backbone LR 扫描（<code>blrv5_{input,nogram}_lr{0p0001..0p0040}</code>，§39）</b>。点 = 各 run 原始 final gap（seed 42，1000 步），细线 = 视觉连接。net gap（input − nogram）：1.940 / 2.486 / 2.696 / <b>2.841（峰 @1e-3）</b> / 2.793 / 2.277；nogram 全程平坦（0.011–0.041）。主预言「net gap 随 backbone LR 响应后饱和回落」命中 ⇒ A 因子（backbone 读出放大）成立。</figcaption></figure>
 <table>
 <tr><th>backbone lr</th><th>1e-4</th><th>3e-4</th><th>6e-4（主线）</th><th>1e-3</th><th>2e-3</th><th>4e-3</th></tr>
 <tr><td>input gap</td><td>1.975</td><td>2.513</td><td>2.718</td><td><b>2.853</b></td><td>2.834</td><td>2.295</td></tr>
 <tr><td>nogram gap</td><td>0.036</td><td>0.027</td><td>0.022</td><td>0.011</td><td>0.041</td><td>0.018</td></tr>
 <tr><td><b>net gap</b></td><td>1.940</td><td>2.486</td><td>2.696</td><td><b>2.841</b></td><td>2.793</td><td>2.277</td></tr>
 </table>
-<div class="note"><b>4e-3 回落 ≠ 数值失稳</b>：12 run 零 NaN、零正尖峰、train 平滑下降。4e-3 的 train 停在 3.110（1e-3 为 2.479）而 val 只差 +0.07——backbone 过快把正在巩固的读表结构冲刷掉，收敛到「欠巩固」的平衡点（读出增益存在最优点），不是训练发散。1e-3 峰值比主线 6e-4 高 +5.4%（单 seed），不改标准。</div>
+<div class="note"><b>4e-3 回落 ≠ 数值失稳</b>：12 run 零 NaN、零正尖峰、train 平滑下降。4e-3 的 train 停在 3.110（1e-3 为 2.479）而 val 只差 +0.07——backbone 过快把正在巩固的读表结构冲刷掉，收敛到「欠巩固」的平衡点（读出增益存在最优点），不是训练发散。1e-3 峰值比主线 6e-4 高 +5.4%（单 seed），不改标准。<b>未解释项</b>：net gap 对 backbone LR 的响应形状（峰 @1e-3、高端回落）目前不能由 §8 的模型推出——\(a_e\) 只声明随 pass 单调增长，其幅度对 backbone LR 的依赖是开放问题。</div>
 
-<h2 id="s8">8 · 来源与可追溯性</h2>
+<h2 id="s8">8 · 数学模型：缺失质量核 M(f) × replay 读出 a<sub>e</sub></h2>
+<p class="small">地位：对当前数据<b>最小且可证伪</b>的工作模型。只解释已被数据支持的核心区间：exact-f 的可靠正-gap 段、当前 R 中段、e=1…10 的 fixed replay；不声称解释极小 R、高频尾、mask 后再平衡或更长时间的最终平台。</p>
+
+<h3>8.1 建模对象与核心方程</h3>
+<p>为排除普通 backbone 自身的小 gap，建模对象是 <b>net n-gram gap</b>：</p>
+\[G_e \;:=\; \mathrm{Gap}^{\mathrm{ngram}}_{e} \;-\; \mathrm{Gap}^{\mathrm{nogram}}_{e}\]
+<p>对训练中出现 \(f\) 次的 context，记其局部 net gap 为 \(g_e(f)\)。核心区间内，全部数据只要求一个语料核与一个训练状态：</p>
+\[\text{局部：}\quad g_e(f) \;\approx\; a_e\, M(f)
+\qquad\qquad
+\text{全局：}\quad G_e \;\approx\; a_e\, Q,
+\qquad Q \;:=\; \sum_f \mu_f\, M(f)\]
+<ul>
+<li><b>频率核 \(M(f) = N_1(f)\,/\,(f\, n(f))\)</b>：频率为 \(f\) 的 context 层的 Good–Turing 缺失延续质量（§8.2）。它只由语料计数决定，<b>没有拟合参数</b>。</li>
+<li><b>\(\mu_f\)</b>：验证 token 落在频率 \(f\) 层的质量份额；\(Q\) 是把局部核按真实 token 质量加总后的常数，也不是新参数。</li>
+<li><b>\(a_e\)</b>：完成 \(e\) 个 pass 后，backbone 对表中训练集特有方向的可用读出强度——模型里唯一随训练演化的状态（§8.6）。</li>
+</ul>
+<p>早期版本中的 \(B\)、\(V\)、\(S_{\mathrm{eff}}\)、\(A(t,\text{passes})\) 不再进入核心模型（两分量核只保留为高频尾修正候选）。核心区间的判决标准只有一条：<b>不同 \(f\) 的曲线是否等于同一个 \(M(f)\) 乘一个幅度</b>。</p>
+
+<h3>8.2 频率核 M(f)：Good–Turing 缺失质量</h3>
+<p>Good–Turing 估计在这里是一个非参数的语料统计量：它从 train 计数估计「未见概率质量」，本身不训练模型、不直接预言 gap；机制假说再把这份未见质量接到表记忆产生的 gap 上。</p>
+<p>固定 context \(c\)，记 next token 为 \(y\)，train 中组合 \((c,y)\) 出现 \(n(c,y)\) 次，context 总次数</p>
+\[f_c \;=\; \sum_y n(c,y)\]
+<p>对所有恰好出现 \(f\) 次的 context（频率层 \(L_f=\{c : f_c = f\}\)，\(n(f)=|L_f|\)），数出每个 context 的 next token 中在 train 里<b>恰好出现一次</b>的类型数：</p>
+\[N_1(c) \;:=\; \#\{y : n(c,y)=1\},
+\qquad
+N_1(f) \;:=\; \sum_{c \in L_f} N_1(c),
+\qquad
+M(f) \;:=\; \frac{N_1(f)}{f\, n(f)} \;=\; \operatorname*{avg}_{c \in L_f}\left[\frac{N_1(c)}{f}\right]\]
+<p>bigram 支路的 context–continuation 类型是「bigram context + next token」构成的 trigram 类型；trigram 支路对应 4-gram 类型。因此 \(M(f)\) 完全从 tokenized train shard 计数得到，不需要模型、优化器或 GPU。</p>
+<p><b>为什么 \(N_1/f\) 估计 unseen mass。</b>设真实条件分布 \(p_{c,y}=P(y \mid c)\)，从中抽 \(f\) 次作为 train。一个 val continuation 在 train 中从未出现的真实概率质量为</p>
+\[P_0(c; f) \;=\; \sum_y p_{c,y}\,(1-p_{c,y})^{f}\]
+<p>而 train 中 singleton 类型数的期望是</p>
+\[\mathbb{E}[\,N_1(c) \mid f\,] \;=\; \sum_y f\, p_{c,y}\,(1-p_{c,y})^{f-1}
+\qquad\Longrightarrow\qquad
+\mathbb{E}\!\left[\frac{N_1(c)}{f}\right] \;=\; \sum_y p_{c,y}\,(1-p_{c,y})^{f-1} \;\approx\; P_0(c; f)\]
+<p>两式只差一个因子 \((1-p)^{-1}\)；missing mass 主要由大量小 \(p\) 的尾部类型贡献时，该因子接近 1——这就是 Good–Turing 的 unseen-mass 估计。健全性检查：\(f{=}1\) 时唯一的 continuation 必为 singleton，故 \(M(1)=1\)；实测计数中 bigram \(M(8)=.510\)、\(M(128)=.269\)，trigram \(M(8)=.535\)、\(M(128)=.296\)。</p>
+
+<h3>8.3 从缺失质量到 gap：采样残差视角</h3>
+<p>真实 next-token 分布是 \(p_c\)，有限 train 给出经验分布 \(\hat p_c\)；\(\delta_c = \hat p_c - p_c\) 是这份训练集特有的采样残差。表行快速写入与 \(\delta_c\) 相关的方向：同一 train 样本 replay 时可复用，独立 val 样本不能得到等量收益。对交叉熵在当前 logits 附近作二阶展开，局部 gap 主项形如</p>
+\[g_e(c) \;\approx\; a_e\, \big\|\,\hat p_c - p_c \,\big\|^2_{H_c}\]
+<p>平方残差无法直接观测；\(M(f)\) 是「经验分布遗漏了多少真实支撑」的可观测代理，于是得到核心假说 \(g_e(f)\approx a_e\, M(f)\)。注意这不是「方差必为 \(1/f\)」的推导，因此允许不同 n-gram order 有不同指数。</p>
+
+<h3>8.4 指数的来源：Zipf 尾 ⇒ β = 1 − 1/α</h3>
+<p>对<b>单个 context 的 continuation 尾部</b>加一个解析假设：按概率排序后</p>
+\[p_{(r)} \;=\; Z^{-1}\, r^{-\alpha}, \qquad \alpha \gt 1\]
+<p>把 \((1-p)^f\) 在尾部近似为 \(\exp(-fp)\)、以积分代替求和：</p>
+\[M(f) \;\approx\; P_0(f) \;\approx\; Z^{-1}\!\int r^{-\alpha}\, \exp\!\left(-f r^{-\alpha}/Z\right) dr
+\;=\; \frac{\Gamma(1-1/\alpha)}{\alpha}\; Z^{-1/\alpha}\; f^{-(1-1/\alpha)}\]
+<div class="note"><b>指数核心式</b>：若 \(M(f)\propto f^{-\beta}\)，则
+\[\boxed{\;\beta \;=\; 1-\frac{1}{\alpha}\;}
+\qquad\Longleftrightarrow\qquad
+\alpha \;=\; \frac{1}{1-\beta}\]
+等价地，若 continuation 支撑遵循 Heaps 律 \(K(f)\propto f^{\theta}\)，则 \(\theta = 1/\alpha\)，故 \(\beta = 1-\theta\)。</div>
+<p>这给「支撑维度」一个具体含义：\(\alpha\) 越大，条件分布尾部越尖，新增 continuation 类型的支撑 \(K(f)\) 增长越慢，missing mass 消耗越快，\(\beta\) 越大。该关系是理想重尾下的<b>局部渐近关系</b>；自然语料有 context 异质性与有限窗口，\(\alpha\)、\(\beta\) 不能当作跨区间常数。</p>
+
+<h3>8.5 估计流程与对齐检验</h3>
+<p>估计完全由已记录的统计量决定：</p>
+<ol>
+<li>从 train 数出每个 \(f\) 的 \(n(f)\)、\(N_1(f)\)，计算 \(M(f)=N_1(f)\,/\,(f\, n(f))\)。</li>
+<li>从 <code>s1v5_128_frequency_main</code>（seed 42，step 1000，exact-frequency）读取每个 exact \(f\) 的 \(g(f)\) = val mean loss − train-probe mean loss；只保留两侧都有 token 且 \(g \gt 0\) 的点。</li>
+<li>高 \(f\) 点稀疏，做几何分桶；对桶 \(b\) 以 token 数 \(w_f\) 加权：
+\[\log \bar f_b = \frac{\sum w_f \log f}{\sum w_f},
+\qquad
+\bar g_b = \frac{\sum w_f\, g(f)}{\sum w_f},
+\qquad
+\bar M_b = \frac{\sum w_f\, M(f)}{\sum w_f}\]</li>
+<li>对 \(z \in \{g, M\}\) 做加权 log–log 回归 \(\log \bar z_b = \mathrm{intercept} - \beta_z \log \bar f_b\)，闭式斜率
+\[\hat\beta_z \;=\; -\, \frac{\sum_b w_b\,(x_b-\bar x)(y_b-\bar y)}{\sum_b w_b\,(x_b-\bar x)^2}\]</li>
+<li>检验的不只是斜率。对 \(g(f) = C\, M(f)\) 只拟合一个幅度
+\[\log \hat C \;=\; \frac{\sum_b w_b\,\big[\log \bar g_b - \log \bar M_b\big]}{\sum_b w_b}\]
+随后报告加权 \(R^2\)、乘法 RMSE，并做低 \(f\) 拟合 → 高 \(f\) 预测的 holdout。</li>
+</ol>
+<table>
+<tr><th>branch</th><th>实测 gap 指数 \(\beta_g\)</th><th>计数核指数 \(\beta_M\)</th><th>\(\alpha_{\mathrm{eff}}=1/(1-\beta_M)\)</th><th>证据解释</th></tr>
+<tr><td>bigram</td><td>0.2548</td><td>0.2579</td><td>1.348</td><td><b>同一 \(\bar f \le 721\) 窗口、同一 val-token 权重</b>；是对齐的 shape test</td></tr>
+<tr><td>trigram</td><td>0.3181</td><td>0.3194</td><td>1.469</td><td>gap 为登记的 7-bin token-mass fit；M 为 \(f\in[1,100]\)、\(n(f)\) 加权，<b>窗口/权重不同，只算交叉验证</b></td></tr>
+</table>
+<p>bigram 的严格对齐检验中，单幅度 \(\hat C = 8.31\)，加权线性 \(R^2 = .9638\)，乘法 RMSE = 5.74%。只用 \(\bar f \le 100\) 估计 \(C\)（得 8.22），再预测 \(100 \lt \bar f \le 721\)，\(R^2 = .8837\)、乘法 RMSE = 4.77%。这比「两个指数接近」更强，因为 \(M(f)\) 的整条形状没有用 gap 拟合。trigram 的 .318/.319 很醒目，但因有限窗口和权重不齐，正文只把它列为 cross-check，不把小数位相等当作证明。</p>
+<figure><img src="../../docs/figs/theory/fig_v5_good_turing_kernel.png" alt="good turing kernel fit">
+<figcaption><b>图 14 · 核的对齐检验：gap(f) = C·M(f) 只拟合一个幅度</b>。A：bigram 严格对齐（同窗口、同 val-token 权重）——蓝点为实测分桶 gap（点大小 ∝ val token 数），绿线为 \(C\cdot M(f)\)（C=8.31，加权 R²=.9638）；红虚线为只用 \(\bar f\le100\) 拟合的 C=8.22 外推 holdout 区（R²=.8837），两条曲线几乎重合。B：trigram 交叉验证——蓝点为纯计数 \(M(f)\)，红线为登记 gap 拟合斜率 −0.318 的参考幂律（窗口/权重不同，只比斜率不做叠加拟合）。统计复算：<code>docs/plot_scripts/summarize_good_turing_kernel.py</code> → <code>theory_good_turing_exponent_summary.csv</code>；图源脚本 <code>plot_v5_good_turing_kernel.py</code>。</figcaption></figure>
+
+<h3>8.6 epoch 动力学：写入—复用—放大</h3>
+<ol>
+<li><b>pass 1 写入。</b>online loss 在更新前记录；一个样本第一次出现时，不能使用自己随后写入的表内容。高频 context 可在同一 pass 内复现，所以「第一轮严格为零」不是数学恒等式；但当前 trigram-only 聚合数据在 e1 的 net gap 为 −0.006，故取 \(a_1 \approx 0\)。</li>
+<li><b>pass 2 起复用。</b>同一个 fixed train 样本再次到来前，表行已经含有与该训练集采样残差 \(\delta_c\) 对齐的内容。它实打实降低这个 train 样本的 loss；独立 val 不重复同一残差，因此没有等量收益。</li>
+<li><b>backbone 逐轮放大。</b>表 LR=128× 时表写入很快；但表向量是否在深层网络中成为可用预测信号，取决于共享 backbone 的更新。每轮 replay 都再次提供「这个表方向能降低 train loss」的相关梯度，因此 \(a_e\) 继续增长。</li>
+<li><b>边际增量变小。</b>当读出已经较强，交叉熵曲率、共享参数任务干涉与 weight decay 会抵消继续放大的梯度，于是每轮增加量下降。这里不需要显式「熵正则项」：恢复力来自原损失的局部曲率、参数 superposition 和已有 wd。</li>
+</ol>
+<p>最小动力学只写一个一阶递推：</p>
+\[a_{e+1}-a_e \;=\; \eta_b\,(s-\lambda\, a_e)
+\qquad\Longrightarrow\qquad
+a_e \;=\; a_\infty\left(1-q^{\,e-1}\right),
+\qquad
+G_e \;=\; G_\infty\left(1-q^{\,e-1}\right),
+\qquad q=1-\eta_b\lambda,\;\; a_\infty = s/\lambda\]
+<p>\(s\) 是 fixed replay 反复提供的训练残差相关信号；\(\lambda\) 是上述有效恢复力，不是新增到代码里的正则项。早期 \(e\) 较小时 \(G_e\) 近似随 \(e\) 线性；之后每轮增量按 \(q\) 缩小。10-epoch net 曲线的区间内拟合给出 \(q=.904\)、\(R^2=.9986\)（图 8b）。对应的「平台 13.58、时间常数 9.88 epoch」只是短窗口外推，<b>目前没有数据支持把它当作真实平台</b>。</p>
+
+<h3>8.7 学习率悖论与干预证据</h3>
+<p>增大 table LR 只加快「写入」，不能凭空创造第二次见到同一样本，也不能把 backbone 的 \(a_e\) 瞬间推到多 epoch 状态。因此 ≥16× 后 table LR 曲线聚拢（图 16b），而 epoch 依赖仍保留。6-pass 因果批给出更直接的判决（全部 seed 42、2022 步、128×，唯一变量为干预）：</p>
+<ul>
+<li><code>causalv5m3_freeze_backbone_e1/e2/e3</code> 的 final gap 依次为 <b>1.585 / 2.505 / 3.389</b>，未冻结对照 <code>causalv5m3_none_2022</code> 为 <b>5.733</b>。允许 backbone 多训练一轮，就锁存更多 gap，方向与 \(a_e\) 单调增长一致。</li>
+<li><code>causalv5m3_freeze_table_e2</code> final gap = <b>5.386</b>，保留对照的 94%；说明 e2 后继续写表不是后续增长的主要必要条件。</li>
+<li>backbone wd 0 / 0.1 / 0.3 的 final gap 为 <b>5.833 / 5.733 / 5.609</b>，方向符合 \(\lambda\) 增大使读出下降；但只有单 seed 且差值约 0.12，只算弱支持。</li>
+</ul>
+
+<h3>8.8 表大小修正 ρ(R) 与模型边界</h3>
+<p>在当前实测 R 中段，改变 R 近似只改变所有 \(f\) 的共同幅度，作为独立的有限容量修正：</p>
+\[G_e(R) \;\approx\; \rho(R)\; a_e\; Q,
+\qquad \rho(R_{\mathrm{ref}})=1\]
+<p>\(\rho(R)\) 在中段近似 \(R^{\gamma}\)（bigram \(\gamma=.576\)、trigram \(\gamma=.665\)），但这只是经验规律。已测稀释面在 \(f\) 上近乎平坦（图 15），而行内流量竞争公式 \(f/(f+T/R)\) 会错误压塌 \(f{=}1\) 端，因此「碰撞如何产生 \(\rho\)」暂不写入核心机制。</p>
+<figure><img src="../../docs/figs/theory/fig_v5_dilution_surface.png" alt="dilution surface">
+<figcaption><b>图 15 · 表大小如何压制 gap：三张检验，一个结论</b>。纵轴 \(s_{emp}\) = 某 run 的 per-f gap 相对参考 run（R=2.35M）的比值，即「该 R 下记忆被压制的份额」。<b>左</b>：不同 R 下 \(s_{emp}\) 对 \(f\) 近乎平坦——压制不偏爱任何频率。<b>中</b>：若行内流量竞争公式 \(f/(f+T/R)\) 成立，所有点应落在虚线 \(s=x\) 上——低频端被直接否定。<b>右</b>：\(s_{emp}\) 对负载 \(K/R\) 单调下降，且不同 \(f\) 的点（颜色）除最高频端外基本折叠——压制主要由全局负载决定。结论：R 改变总幅度 \(\rho(R)\)、不改变核的形状 \(M(f)\)，故 \(\rho\) 作为经验修正单列；其微观推导仍开放。</figcaption></figure>
+<p><b>当前判决</b>：核心区间模型 \(g_e(f)=a_e\, M(f)\) 已同时通过频率形状（图 14）、10-epoch 动力学（图 8b）、freeze-backbone 阶梯与 freeze-table 保留四类检验，足以作为主报告的定量解释；仍不能称为对所有 regime 的证明。最关键的下一次 challenge：把同一 shard×3 全局混匀后与分块 replay 比较——若终点相同而 epoch 齿消失，说明状态主要是累计复用；若终点显著改变，就必须在 \(a_e\) 中加入重复间隔/顺序变量。backbone LR 响应曲线的形状（图 18）同样尚未被模型解释。</p>
+
+<h2 id="s9">9 · 来源与可追溯性</h2>
 <ul>
 <li><b>代码</b>：<code>code/train.py</code>（训练/注入/干预旗标）、<code>code/ngram_freq.py</code>（频率索引）、<code>code/cluster/run_v5_clean.sh</code>（128× 标准 launcher）、<code>code/cluster/run_v5_main_manifest.sh</code>（批量清单）。</li>
 <li><b>绘图脚本</b>：<code>docs/plot_scripts/</code>（每图一个脚本，数据从 <code>data/runs_fixed/*_fixed/</code> 的 summary/train_log/exact_freq_loss 直接读取）。</li>
-<li><b>实验清单</b>：<a href="experiment-registry.html">experiment-registry.html</a>——全部 run 的 run_id / setting / 状态 / 图源映射；<code>docs/experiment-log.md</code> 为登记簿（§38/§39 为最新批）；<code>docs/claims-ledger.md</code> 为断言台账。</li>
+<li><b>实验清单</b>：<a href="experiment-registry.html">experiment-registry.html</a>——全部 run 的 run_id / setting / 状态 / 图源映射；<code>docs/experiment-log.md</code> 为登记簿（§38–§40 为最新批）；<code>docs/claims-ledger.md</code> 为断言台账。</li>
 <li><b>术语与伪代码</b>：<a href="background.html">background.html</a>；理论完整推导：<code>docs/notes/theory/hypothesis-dilution-amplification.md</code>。</li>
 <li><b>历史版本</b>：本页旧版（2× 时代）在 <a href="versions/index-20260806-2x-era.html">versions/index-20260806-2x-era.html</a>；主文档只在 blog 仓库手工编辑，改完同步回 <code>docs/report/index.html</code>。</li>
 </ul>
 
-<footer>n-gram-gap-lab · 主文档 v5（2026-08-31：核心模型简化为 M(f)×aₑ，并补全 replay/epoch 动力学与 causalv5m3 因果判决）· 数据命名空间 data/runs_fixed/（_fixed 后缀为权威口径）</footer>
+<footer>n-gram-gap-lab · 主文档 v5（2026-08-31：目录重构为 1–9 节；模型节迁为第 8 节压轴并补全 Good–Turing 推导（MathJax）；epoch 长度轴修复至 3.95×L4；附录补 LR 饱和曲线与优化器对比）· 数据命名空间 data/runs_fixed/（_fixed 后缀为权威口径）</footer>
 </div>
 </body>
 </html>
